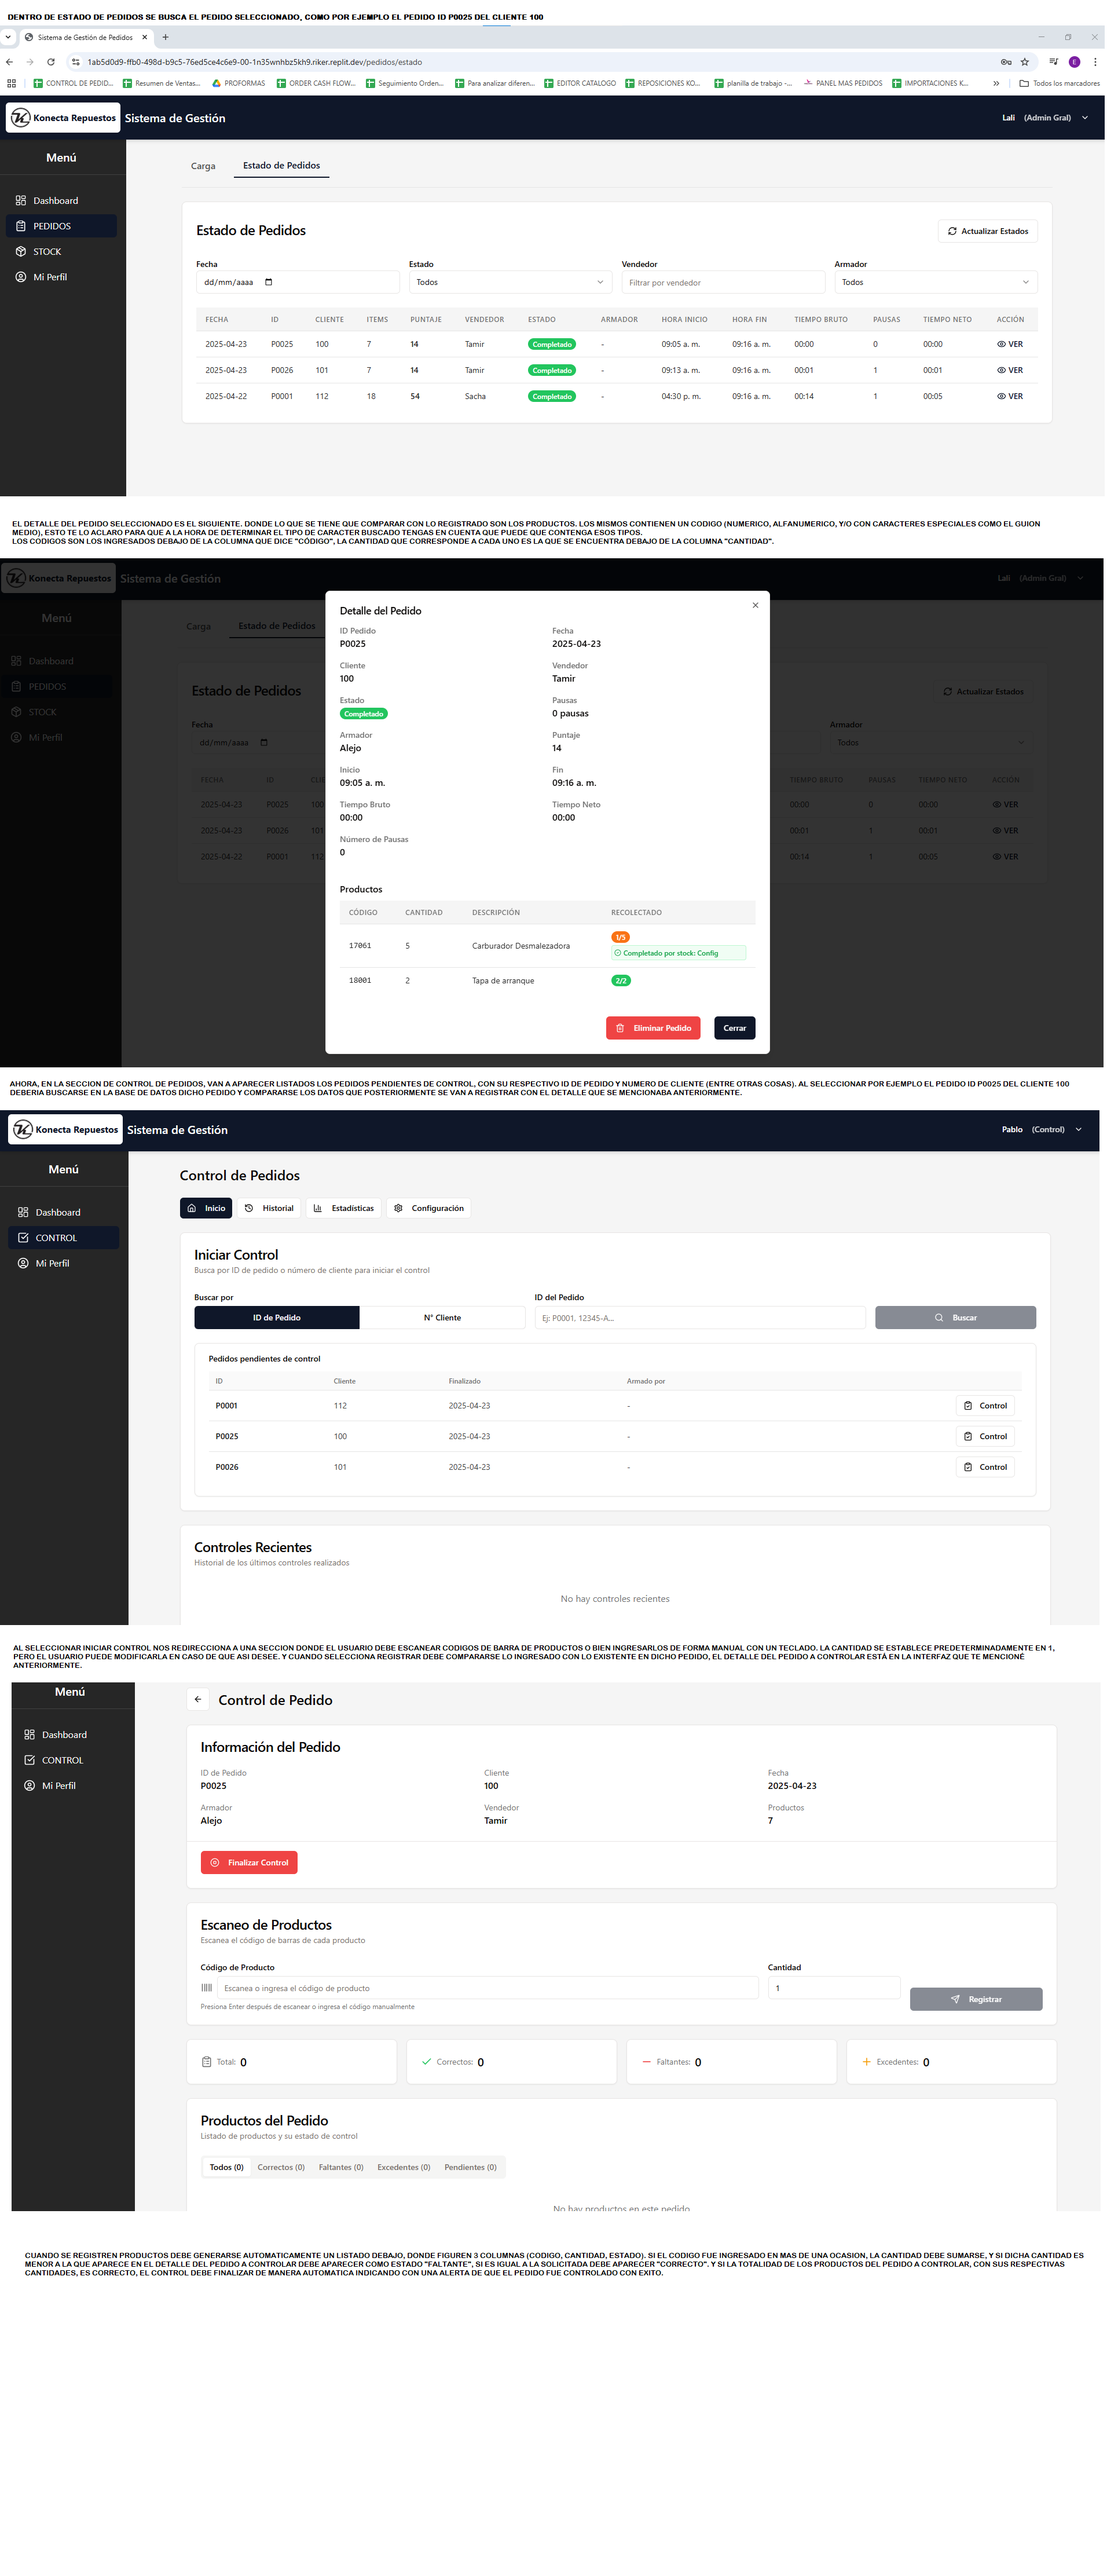
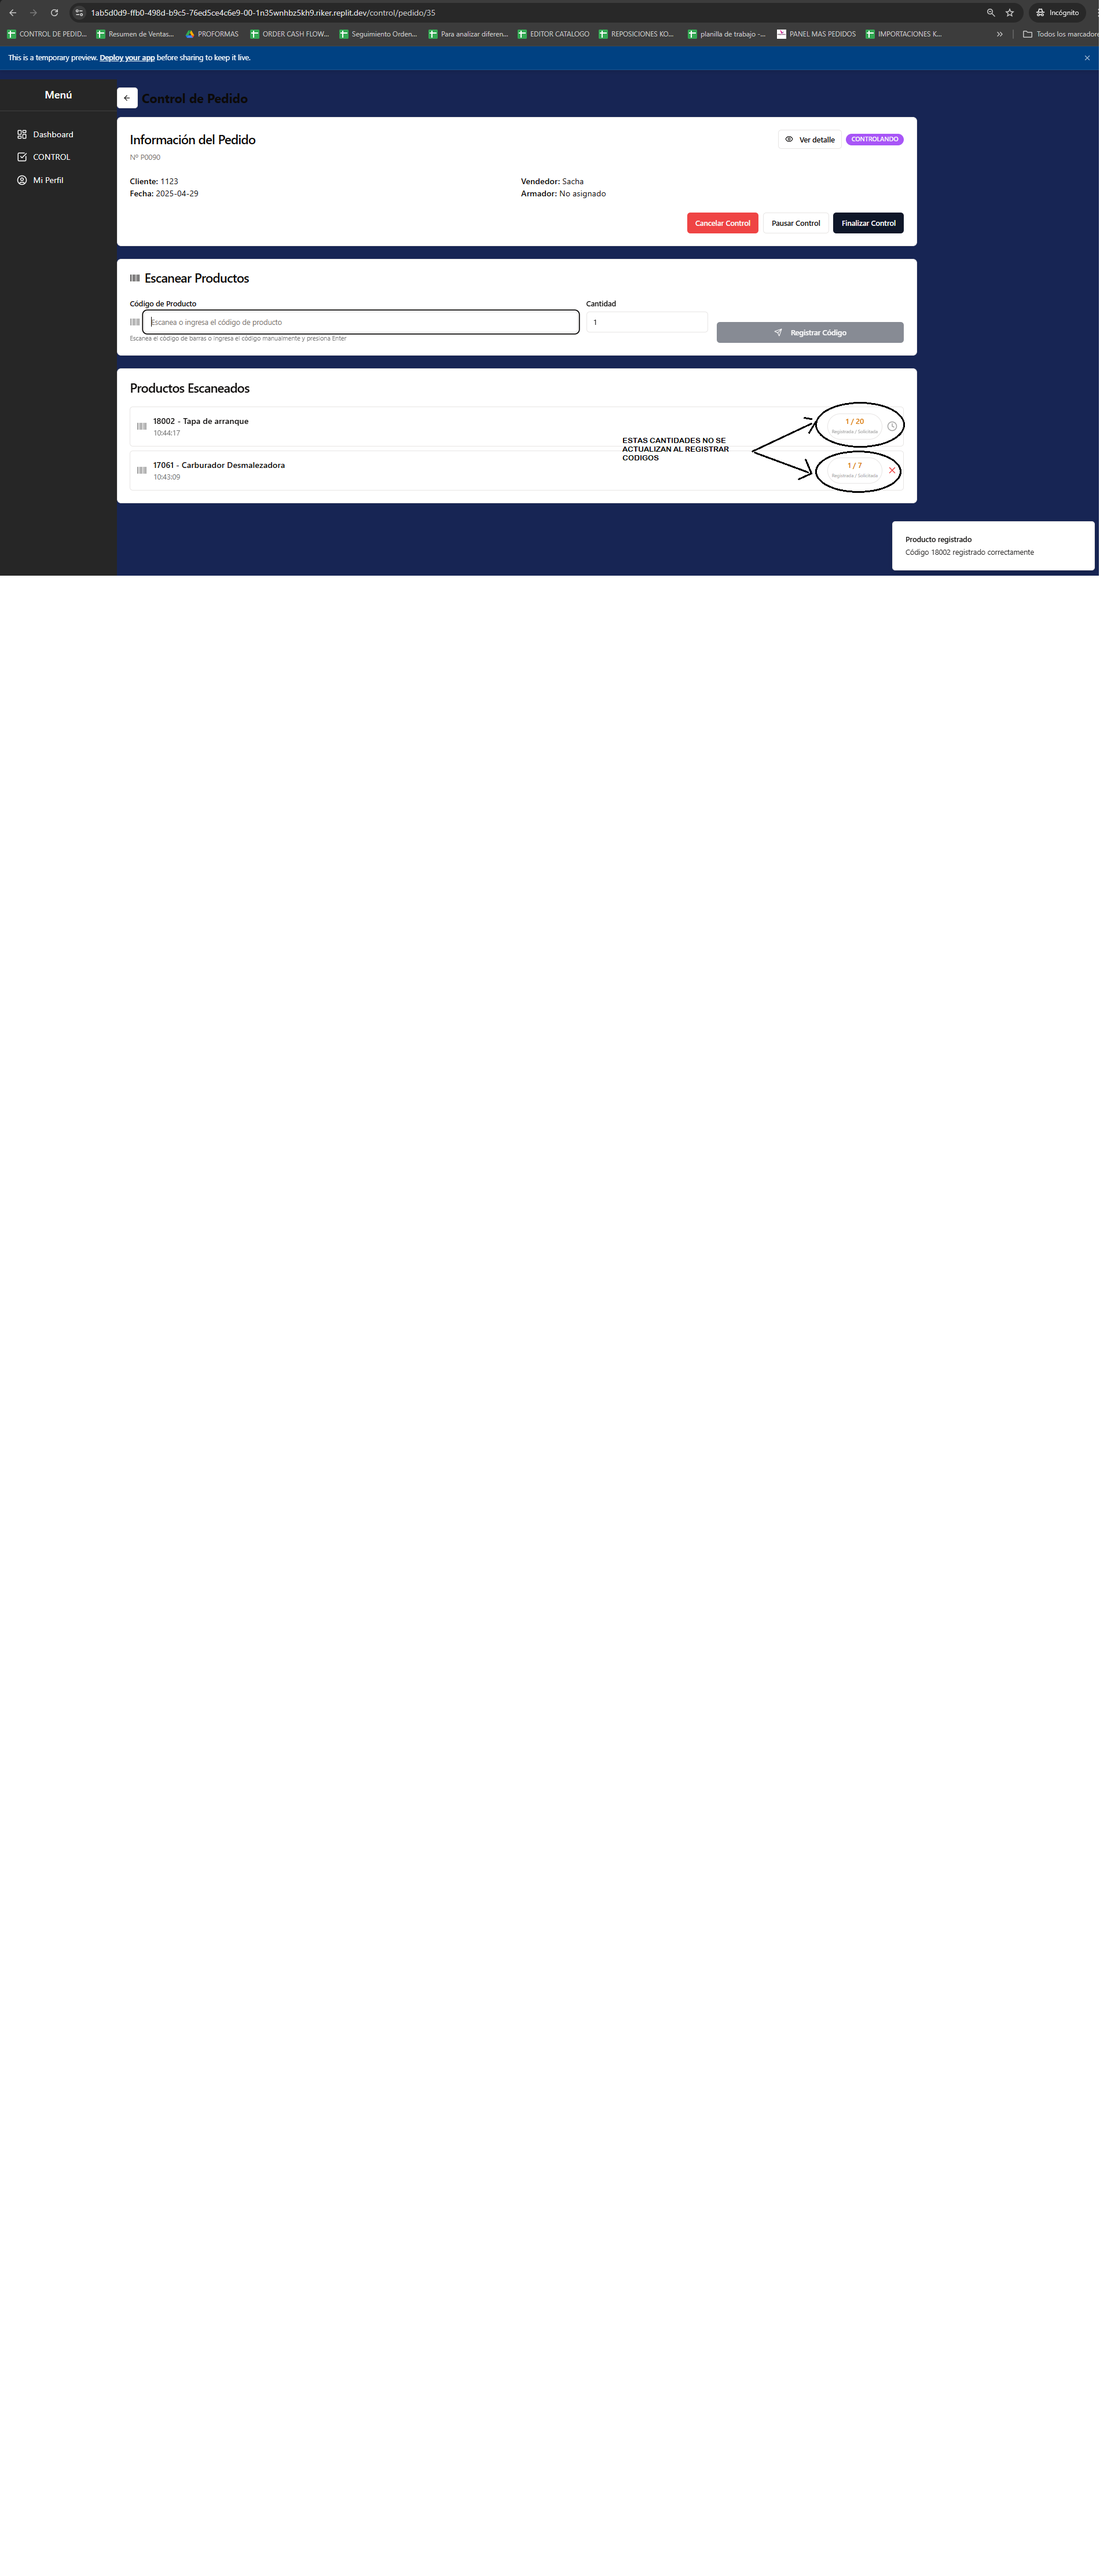
Improve alert appearance for excess product amounts and display scanned items
Enhance ProductoExcedenteAlert component's UI and update ProductosEscaneadosLista to display scanned products.

Replit-Commit-Author: Agent
Replit-Commit-Session-Id: 8bffef0e-92bf-4348-ab62-d82b597a7a11
Replit-Commit-Screenshot-Url: https://storage.googleapis.com/screenshot-production-us-central1/1ab5d0d9-ffb0-498d-b9c5-76ed5ce4c6e9/fbf1fae5-38e2-47ec-a856-a1dc581adcca.jpg

diff --git a/client/src/components/control/producto-excedente-alert.tsx b/client/src/components/control/producto-excedente-alert.tsx
@@ -1,4 +1,4 @@
-import { AlertCircle } from "lucide-react";
+import { AlertCircle, Package, ArrowRight, MinusCircle } from "lucide-react";
 import { Button } from "@/components/ui/button";
 import { Dialog, DialogContent, DialogDescription, DialogFooter, DialogHeader, DialogTitle } from "@/components/ui/dialog";
 
@@ -29,43 +29,53 @@ export function ProductoExcedenteAlert({
         <DialogHeader>
           <DialogTitle className="flex items-center">
             <AlertCircle className="h-5 w-5 text-amber-500 mr-2" />
-            Cantidad excedente detectada
+            ¡ATENCIÓN! Cantidad excedente detectada
           </DialogTitle>
-          <DialogDescription>
-            Se ha detectado un excedente en este producto. Por favor retire {excedente} unidad(es).
+          <DialogDescription className="text-red-600 font-semibold text-base">
+            Se ha registrado un excedente de productos. Por favor retire {excedente} unidad(es).
           </DialogDescription>
         </DialogHeader>
         
-        <div className="grid grid-cols-1 gap-4 py-4">
+        <div className="grid grid-cols-1 gap-4 py-4 border-y-2 border-amber-100 my-2 bg-amber-50 p-4 rounded-md">
           <div>
-            <p className="text-sm font-medium mb-1">Código:</p>
-            <p className="text-lg font-bold">{codigo}</p>
-          </div>
-          <div>
-            <p className="text-sm font-medium mb-1">Descripción:</p>
-            <p className="text-lg">{descripcion}</p>
-          </div>
-          <div className="grid grid-cols-2 gap-4">
-            <div>
-              <p className="text-sm font-medium mb-1">Cantidad esperada:</p>
-              <p className="text-lg font-bold">{cantidadEsperada}</p>
+            <div className="flex items-center">
+              <Package className="mr-2 h-5 w-5 text-amber-600" />
+              <p className="text-lg font-bold">{codigo}</p>
             </div>
-            <div>
-              <p className="text-sm font-medium mb-1">Cantidad actual:</p>
-              <p className="text-lg font-bold text-amber-600">{cantidadActual}</p>
+            <p className="text-md mt-1">{descripcion}</p>
+          </div>
+          
+          <div className="flex items-center justify-center gap-6 my-2">
+            <div className="text-center">
+              <p className="text-xs uppercase mb-1">Cantidad Solicitada</p>
+              <p className="text-xl font-bold border rounded-full py-2 px-4 bg-white">{cantidadEsperada}</p>
+            </div>
+            <ArrowRight className="h-6 w-6 text-neutral-400" />
+            <div className="text-center">
+              <p className="text-xs uppercase mb-1">Cantidad Registrada</p>
+              <p className="text-xl font-bold border rounded-full py-2 px-4 text-amber-600 bg-white">{cantidadActual}</p>
             </div>
           </div>
-          <div>
-            <p className="text-sm font-medium mb-1">Excedente a retirar:</p>
-            <p className="text-lg font-bold text-amber-600">{excedente}</p>
+          
+          <div className="flex items-center justify-center mt-2 bg-red-50 p-3 rounded-lg border-2 border-red-100">
+            <MinusCircle className="h-6 w-6 text-red-500 mr-2" />
+            <div className="text-center">
+              <p className="text-xs uppercase mb-1 text-red-600">Excedente a retirar</p>
+              <p className="text-2xl font-bold text-red-600">{excedente}</p>
+            </div>
           </div>
         </div>
         
         <DialogFooter>
-          <Button onClick={() => {
-            if (onConfirm) onConfirm();
-            onOpenChange(false);
-          }}>He retirado el excedente</Button>
+          <Button 
+            className="w-full bg-amber-600 hover:bg-amber-700 text-white" 
+            onClick={() => {
+              if (onConfirm) onConfirm();
+              onOpenChange(false);
+            }}
+          >
+            He retirado el excedente
+          </Button>
         </DialogFooter>
       </DialogContent>
     </Dialog>

diff --git a/client/src/pages/control/pedido-page.tsx b/client/src/pages/control/pedido-page.tsx
@@ -1575,9 +1575,13 @@ export default function ControlPedidoPage() {
                 <CardTitle>Productos Escaneados</CardTitle>
               </CardHeader>
               <CardContent>
-                {/* Nuevo componente específico para mostrar productos escaneados */}
+                {/* Mostrar los productos controlados del estado actualizado */}
                 <ProductosEscaneadosLista 
-                  productos={controlState.historialEscaneos}
+                  productos={controlState.productosControlados.map(p => ({
+                    ...p,
+                    escaneado: p.controlado > 0,
+                    timestamp: new Date() // Usar fecha actual para ordenar
+                  }))}
                   showEmpty={true}
                 />
               </CardContent>
